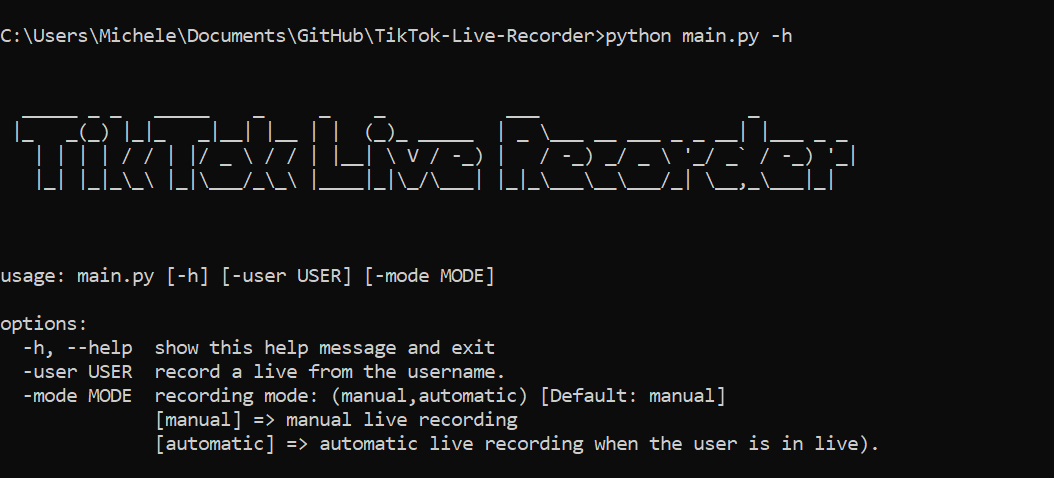
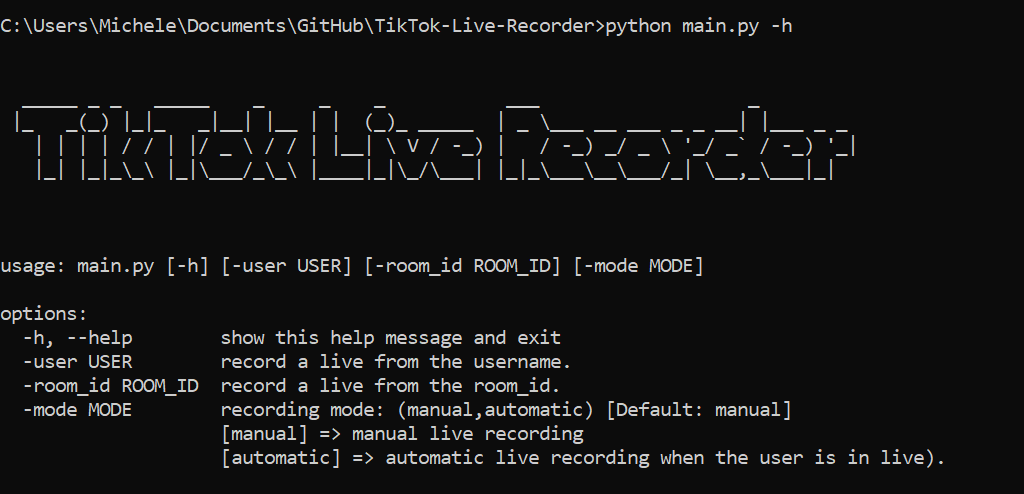
Recoding by room_id + new sample.png

Changed region(s): [[0.0, 0.4979, 0.9375, 0.9665], [0.0, 0.205, 0.8438, 0.41], [0.0, 0.0293, 0.7812, 0.0879]]

diff --git a/main.py b/main.py
@@ -31,6 +31,15 @@ def get_room_id(user: str) -> str:
         print("[*] Error: Username not found")
     exit(1)
 
+def get_user_from_room_id(room_id: str) -> str:
+    url = f"https://www.tiktok.com/api/live/detail/?aid=1988&roomID={room_id}"
+    content = req.get(url).text
+
+    if "LiveRoomInfo" not in content:
+        raise Exception("[*] Incorrect Room_Id")
+
+    return re.search('uniqueId":"(.*?)",', content).group(1)
+
 
 def is_user_in_live(room_id: str) -> bool:
     url = f"https://www.tiktok.com/api/live/detail/?aid=1988&roomID={room_id}"
@@ -69,11 +78,16 @@ def main():
 
     user: str
     mode: str
+    room_id: str
 
     parser = argparse.ArgumentParser(formatter_class=RawTextHelpFormatter)
     parser.add_argument("-user",
                         dest="user",
                         help="record a live from the username.",
+                        action='store')
+    parser.add_argument("-room_id",
+                        dest="room_id",
+                        help="record a live from the room_id.",
                         action='store')
     parser.add_argument("-mode",
                         dest="mode",
@@ -82,32 +96,44 @@ def main():
                         action='store')
     args = parser.parse_args()
 
-    if not args.user:
-        raise Exception("[*] Missing user value")
-    if args.mode and args.mode != "manual" and args.mode != "automatic":
-        raise Exception("[*] Incorrect -mode value")
-    user = args.user
-    mode = args.mode
+    try:
+        if not args.user and not args.room_id:
+            raise Exception("[*] Missing user/room_id value")
+        if args.mode and args.mode != "manual" and args.mode != "automatic":
+            raise Exception("[*] Incorrect -mode value")
+        if args.user and args.room_id:
+            raise Exception("[*] Enter the username or room_id, not both.")
 
-    room_id = get_room_id(user)
-    print("[*] ROOM_ID:", room_id)
+        if args.user:
+            user = args.user
+            room_id = get_room_id(user)
+        else:
+            room_id = args.room_id
+            user = get_user_from_room_id(room_id)
+            
+        mode = args.mode
 
-    if mode == "manual":
-        if not is_user_in_live(room_id):
-            print(f"\n[*] {user} is offline")
-            exit(0)
+        print("[*] ROOM_ID:", room_id)
+        print("[*] USERNAME:", user)
 
-        start_recording(user, room_id)
-
-    if mode == "automatic":
-        while True:
+        if mode == "manual":
             if not is_user_in_live(room_id):
                 print(f"\n[*] {user} is offline")
-                print("waiting 5 minutes before recheck")
-                time.sleep(TIMEOUT * 60)
-                continue
-            
+                exit(0)
+
             start_recording(user, room_id)
+
+        if mode == "automatic":
+            while True:
+                if not is_user_in_live(room_id):
+                    print(f"\n[*] {user} is offline")
+                    print("waiting 5 minutes before recheck")
+                    time.sleep(TIMEOUT * 60)
+                    continue
+                
+                start_recording(user, room_id)
+    except Exception as ex:
+        print(ex)
 
 if __name__ == '__main__':
     main()
